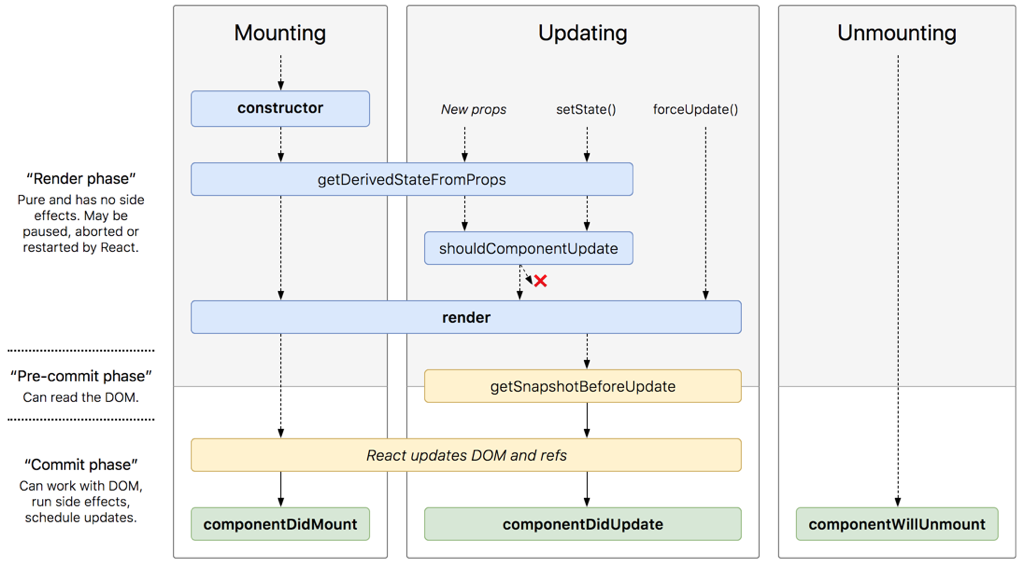
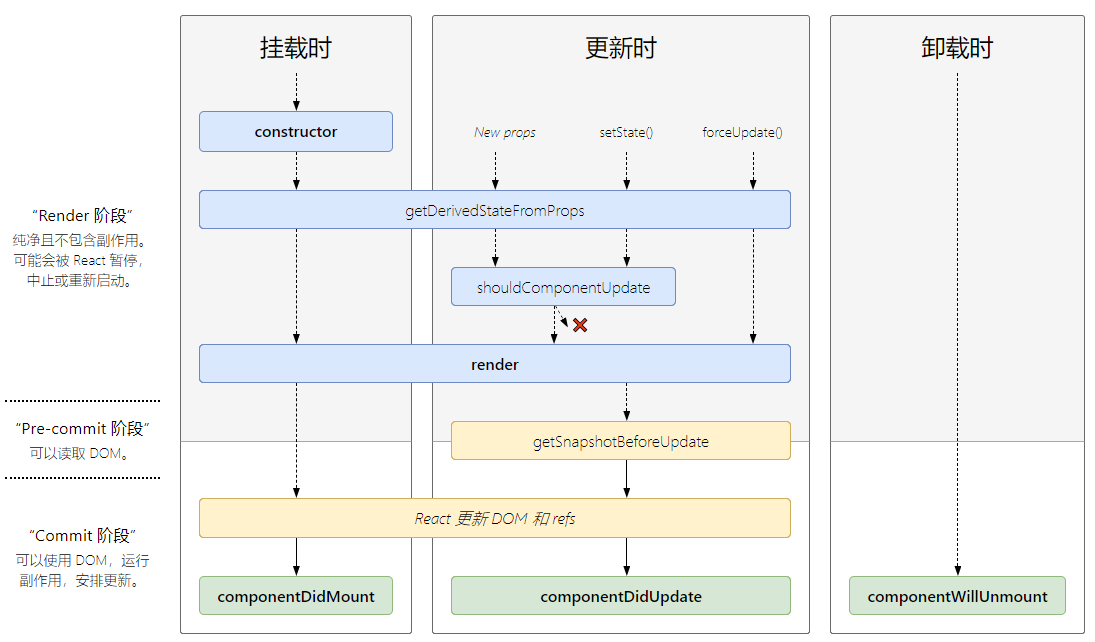
增加react知识

Changed region(s): [[0.0, 0.0, 1.0, 0.9877], [0.0, 0.8081, 0.1562, 0.9278], [0.0, 0.5986, 0.1562, 0.6285]]

diff --git a/src/react/基础知识.md b/src/react/基础知识.md
@@ -4,44 +4,42 @@
 
 这里需要说明的是。react的生命周期在不同的版本可能不同，总的来说React组件的生命周期分为三个部分:
 
-装载(Mounting)、更新(Updating)、卸载(Unmounting)。
+挂载(Mounting)、更新(Updating)、卸载(Unmounting)。
 
 另外还有一个 [**`static getDerivedStateFromError(error)`**](https://zh-hans.reactjs.org/docs/react-component.html#static-getderivedstatefromerror) 用于捕捉错误
 
 ![React生命周期](../images/react/react生命周期.png)
 
-## 装载阶段
+## 挂载阶段
 
-组件被实例化并被挂载到DOM树这一过程称为装载，装载期间调用的生命周期函数依次是：
+组件被实例化并被挂载到DOM树这一过程称为挂载，挂载期间调用的生命周期函数依次是：
 
-- [constructor(props)](https://zh-hans.reactjs.org/docs/react-component.html#constructor)
-- [static getDerivedStateFromProps(nextProps,prevState)](https://zh-hans.reactjs.org/docs/react-component.html#static-getderivedstatefromprops)
-- [render()](https://zh-hans.reactjs.org/docs/react-component.html#render)
-- [componentDidMount()](https://zh-hans.reactjs.org/docs/react-component.html#componentdidmount)
+- [**`constructor(props)`**](https://zh-hans.reactjs.org/docs/react-component.html#constructor)
+- [`static getDerivedStateFromProps(nextProps, prevState)`](https://zh-hans.reactjs.org/docs/react-component.html#static-getderivedstatefromprops)
+- [**`render()`**](https://zh-hans.reactjs.org/docs/react-component.html#render)
+- [**`componentDidMount()`**](https://zh-hans.reactjs.org/docs/react-component.html#componentdidmount)
+
+> 注意:
 
 ## 更新阶段
 
 当组件的状态或属性变化时会触发更新，更新过程会依次以下方法
 
-- [static getDerivedStateFromProps(nextProps,prevState)](https://reactjs.org/docs/react-component.html#static-getderivedstatefromprops)  上文已描述，不赘述
-
-- [componentWillUpdate()](https://reactjs.org/docs/react-component.html#unsafe_componentwillupdate)
-
-- [render()](https://reactjs.org/docs/react-component.html#render)
-
-- [getSnapshotBeforeUpdate(prevProps, prevState)](https://reactjs.org/docs/react-component.html#getsnapshotbeforeupdate)
-
-- [componentDidUpdate(prevProps, prevState, snapshot)](https://reactjs.org/docs/react-component.html#componentdidupdate)
+- [`static getDerivedStateFromProps(nextProps,prevState)`](https://zh-hans.reactjs.org/docs/react-component.html#static-getderivedstatefromprops)
+- [`shouldComponentUpdate()`](https://zh-hans.reactjs.org/docs/react-component.html#shouldcomponentupdate)
+- [**`render()`**](https://zh-hans.reactjs.org/docs/react-component.html#render)
+- [`getSnapshotBeforeUpdate(prevProps, prevState)`](https://zh-hans.reactjs.org/docs/react-component.html#getsnapshotbeforeupdate)
+- [**`componentDidUpdate(prevProps, prevState, snapshot)`**](https://zh-hans.reactjs.org/docs/react-component.html#componentdidupdate)
 
 ## 卸载阶段
 
 组件从DOM树移除时会调用
 
-* [componentWillUnmount()](https://reactjs.org/docs/react-component.html#componentwillunmount) 
+* [**`componentWillUnmount()`**](https://zh-hans.reactjs.org/docs/react-component.html#componentwillunmount)
 
-- [**`constructor()`**](https://zh-hans.reactjs.org/docs/react-component.html#constructor)
-- [`static getDerivedStateFromProps()`](https://zh-hans.reactjs.org/docs/react-component.html#static-getderivedstatefromprops)
-- [**`render()`**](https://zh-hans.reactjs.org/docs/react-component.html#render)
-- [**`componentDidMount()`**](https://zh-hans.reactjs.org/docs/react-component.html#componentdidmount)
+## 错误处理
+
+- [`static getDerivedStateFromError(error)`](https://zh-hans.reactjs.org/docs/react-component.html#static-getderivedstatefromerror)
+- [`componentDidCatch(error, info)`](https://zh-hans.reactjs.org/docs/react-component.html#componentdidcatch)
 
 
